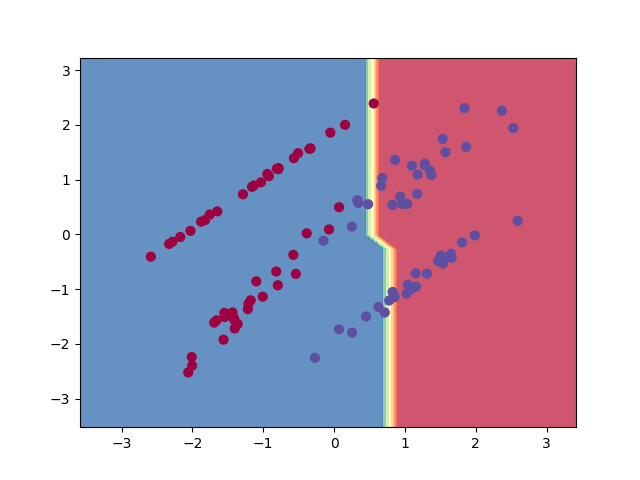
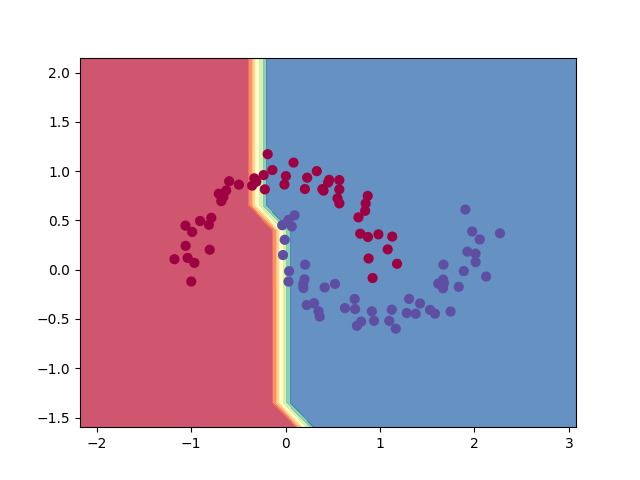
stable

diff --git a/src/examples/regression/regression.py b/src/examples/regression/regression.py
@@ -52,6 +52,22 @@ def create_poly_dataset():
     return np.array(X), np.array(y)
 
 
+def create_custom_datasets(dataset_name="cos"):
+    """Cos, poly, sin"""
+
+    X = np.linspace(0, 1, 100)
+
+    if dataset_name == "cos":
+        y = np.cos(2 * np.pi * X)
+    elif dataset_name == "sin":
+        y = np.sin(2 * np.pi * X)
+    elif dataset_name == "poly":
+        y = 5 * X ** 3 + X ** 2 + 5
+    else:
+        raise ValueError()
+    return X[..., None], y
+
+
 def visualize_dataset(dataset, out_path, feature=0):
     X, y = dataset
     plt.scatter(X[:, feature], y)
@@ -199,12 +215,12 @@ if __name__ == "__main__":
 
     seed_everything(42)
 
-    reg_type = "poly"  # mlp, poly
+    reg_type = "mlp"  # mlp, poly
     decision_as_line = False
     cv_splits = 2
-    batch_size = 16
-    cv = True
-    steps = 1000
+    batch_size = 32
+    cv = False
+    steps = 5000
     lr = 0.01
     regularizatioin_func = l2_regularization
     root_path = f"{reg_type}_experiment" + ("_cv" if cv else "")
@@ -213,8 +229,8 @@ if __name__ == "__main__":
     dataset = None
     model = None
 
-    # search_greed = OrderedDict({"poly_degree": [4], "alpha": [1e-4]})
-    search_greed = OrderedDict({"poly_degree": [1, 2, 4], "alpha": [0.01, 0.1, 1]})
+    search_greed = OrderedDict({"poly_degree": [4], "alpha": [1e-4]})
+    # search_greed = OrderedDict({"poly_degree": [1, 2, 4], "alpha": [0.01, 0.1, 1]})
     used_params = []
     experiments_count = 4
 
@@ -235,10 +251,14 @@ if __name__ == "__main__":
         experiment_path = os.path.join(root_path, f"exp_{experiments_count}")
         os.makedirs(experiment_path, exist_ok=True)
 
-        with open(os.path.join(experiment_path, 'config.json'), 'w') as outfile:
+        with open(os.path.join(experiment_path, "config.json"), "w") as outfile:
             json.dump(hyper_params, outfile)
 
-        print('Use hyper params:', hyper_params, "===========================================")
+        print(
+            "Use hyper params:",
+            hyper_params,
+            "===========================================",
+        )
 
         if reg_type == "poly":
             poly_degree = hyper_params["poly_degree"]
@@ -250,21 +270,25 @@ if __name__ == "__main__":
             n_features = 1
             model = MLP(
                 n_features,
-                nouts=[2, 2, 1],  # [2, 2, 1]
+                nouts=[3, 2, 1],  # [2, 2, 1]
                 # activations=['relu', 'relu', None],  # relu, sigmoid, tanh
-                activations=["sigmoid", "sigmoid", None],  # relu, sigmoid, tanh
+                # activations=["sigmoid", "sigmoid", None],  # relu, sigmoid, tanh
+                activations=["tanh", "tanh", None],  # relu, sigmoid, tanh
                 # activations=['tanh', 'tanh', None],
-                initializer="xavier",  # xavier, he, None
+                initializer='xavier',  # xavier, he, None
             )
 
             # [-1, 1] - веса, то с relu градиенты затухнут для -
             # model = Neuron(1)
-            dataset = make_regression(
-                n_samples=50,
-                n_features=n_features,
-                noise=5,
-                shuffle=True,
-            )
+            # dataset = make_regression(
+            #     n_samples=50,
+            #     n_features=n_features,
+            #     noise=5,
+            #     shuffle=True,
+            # )
+
+            dataset = create_custom_datasets(dataset_name='sin')
+
             # visualize_dataset(dataset, experiment_path)
             X, y = dataset
             dataset = normalize(X, y, x_norm_func=std_norm)
@@ -289,7 +313,7 @@ if __name__ == "__main__":
                     steps=steps,
                     decision_as_line=decision_as_line,
                     regularizatioin_func=regularizatioin_func,
-                    reg_alpha=hyper_params['alpha'],
+                    reg_alpha=hyper_params["alpha"],
                 )
                 metrics = validation(
                     model,
@@ -311,7 +335,7 @@ if __name__ == "__main__":
                 steps=steps,
                 decision_as_line=decision_as_line,
                 regularizatioin_func=regularizatioin_func,
-                reg_alpha=hyper_params['alpha'],
+                reg_alpha=hyper_params["alpha"],
             )
             metrics = validation(
                 model,

diff --git a/src/engine/core.py b/src/engine/core.py
@@ -1,5 +1,5 @@
-# inspired by https://github.com/karpathy/micrograd
 import numpy as np
+
 
 
 class Value:
@@ -7,10 +7,9 @@ class Value:
         self.data = data
         self.grad = 0
         self.optim_state = {}
-        # internal variables used for autograd graph construction
         self._backward = lambda: None
         self._prev = set(_children)
-        self._op = _op  # the op that produced this node, for graphviz / debugging / etc
+        self._op = _op
 
     def __add__(self, other):
         other = other if isinstance(other, Value) else Value(other)
@@ -59,7 +58,7 @@ class Value:
     def __pow__(self, other):
         assert isinstance(
             other, (int, float)
-        ), "only supporting int/float powers for now"
+        ), "int and float supported only"
         out = Value(self.data ** other, (self,), f"**{other}")
 
         def _backward():
@@ -105,11 +104,10 @@ class Value:
         return out
 
     def backward(self):
-
-        # topological order all of the children in the graph
         topo = []
         visited = set()
 
+        # topological sort
         def build_topo(v):
             if v not in visited:
                 visited.add(v)
@@ -119,7 +117,6 @@ class Value:
 
         build_topo(self)
 
-        # go one variable at a time and apply the chain rule to get its gradient
         self.grad = 1
         for v in reversed(topo):
             v._backward()

diff --git a/src/examples/classification/classification.py b/src/examples/classification/classification.py
@@ -108,22 +108,22 @@ def train(model, dataset, steps=100):
 if __name__ == "__main__":
 
     seed_everything(42)
-    # X, y = create_moons_dataset()
+    X, y = create_moons_dataset()
     # X, y = create_blobs_dataset()
-    X, y = create_classification_dataset()
+    # X, y = create_classification_dataset()
 
-    # model = MLP(
-    #     2,
-    #     nouts=[8, 8, 1],
-    #     activations=['sigmoid', 'sigmoid', 'tanh'],
-    #     initializer=None,  # xavier, he
-    # )
+    model = MLP(
+        2,
+        nouts=[8, 8, 2, 1],
+        activations=['relu', 'relu', 'relu', 'tanh'],
+        initializer='he',  # xavier, he
+    )
 
-    model = Neuron(2)
+    # model = Neuron(2)
     # model = Neuron(2, activation='sigmoid')
 
     print(model)
     print("number of parameters", len(model.parameters()))
 
-    train(model, dataset=(X, y), steps=500)
+    train(model, dataset=(X, y), steps=50)
     visualize_decision(model)
